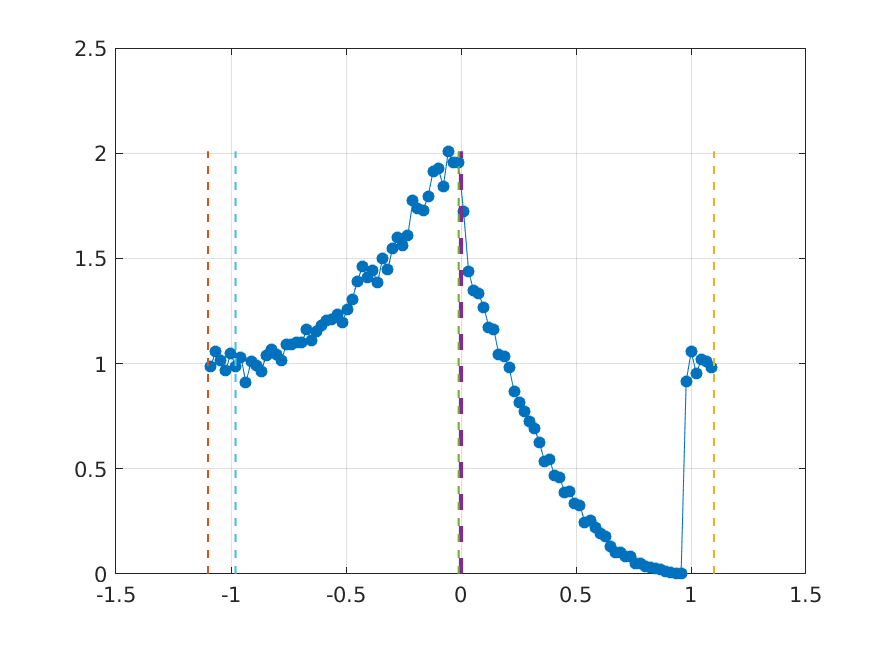
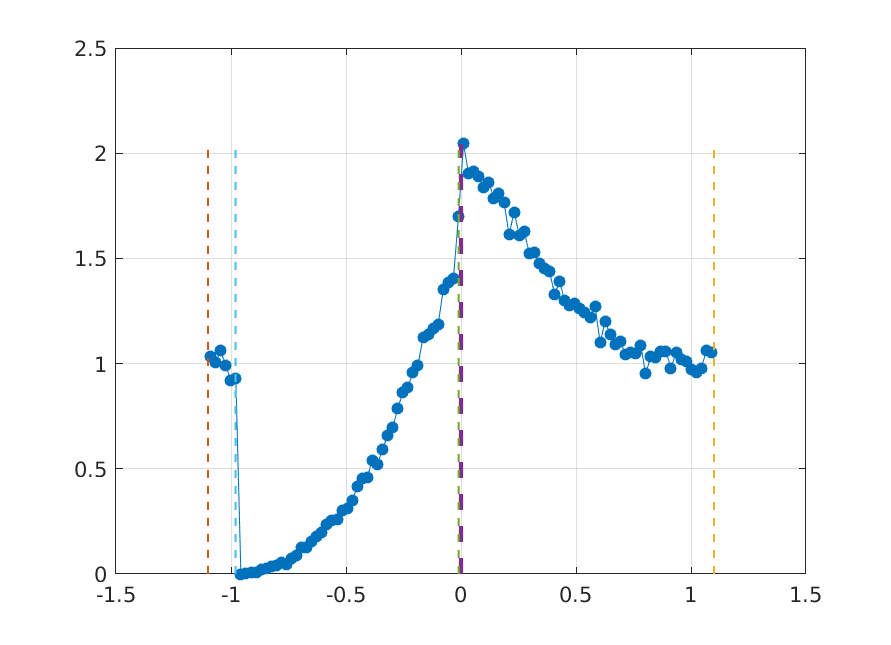
SINGLE LINE FORMATION WORKS CORRECTLY

diff --git a/two_resonance_lines/multiple_lines.m b/two_resonance_lines/multiple_lines.m
@@ -10,7 +10,7 @@ function [freq,flux,total_number_scatterings,photon_path,yes] = multiple_lines(n
     % set initial problem parameters
     [nchan,vmin,vmax,deltax,freq,flux,b,xmin,xmax,rmax,...
             nin,nout,photon_path,nsc,expected_scattering_ratio,r_init] =  ...
-                param_init(beta,nbins,resonance_x,nphot,compare_Fortran,xstart_Fortran);       
+                param_init(beta,nbins,resonance_x,nphot,compare_Fortran);       
             
     display('_____________________________________')
      
@@ -29,12 +29,7 @@ function [freq,flux,total_number_scatterings,photon_path,yes] = multiple_lines(n
         end
         yes(1,phot) = xstart;
         
-        if phot == 104
-            display('we are looking at photon number 104')
-            display(goto_end_of_loop)
-            display('we are done looking at photon number 104')
-        end
-               
+        
         % ALL SCATTERING EVENTS
         if (goto_end_of_loop == 0) & (possibility_scattering == 1)  
             % select angle (economy on photon numbers)
@@ -48,54 +43,56 @@ function [freq,flux,total_number_scatterings,photon_path,yes] = multiple_lines(n
             one_photon_path = [one_photon_path; r_new; xmueou];
                             
             
-            if length(xnew)>0
+            if length(xnew) > 0
                 yes(4,phot) = xnew;
             end
             
-            % also check if resonance is possible!
-            vmin_ = resonance_x + 0.99*vmin;
-            vmax_ = resonance_x + 1.01*vmax;
-            
-            for k=1:length(vmin)
-                if (xstart >= vmin_(k)) & (xstart <= vmax_(k))
-                    last_scatter = 1;
-                else
-%                     display('SHOOT THE PHOTON')
-                end
-            end
-            if xstart == []
-                last_scatter = 1;
-            end
-            
-            % secundary scattering events
-            while (last_scatter == 0) & (multiple_scatterings == 1)
-%                 display('hallo (2) - - - - - - - - - - - - - - - ')
-%                 display(last_scatter)
-                         
-                [xnew,r_new,nin,last_scatter,xmueou,phot_nsc,photon_path] = ...
-                    make_scattering(xnew,xmueou,r_new,beta,alpha,b,rmax,nin,...
-                        resonance_x,resonance_tau,all_radial,isotropic_scattering,phot_nsc,...
-                        photon_path,phot,last_scatter,vmin,vmax); 
-                if last_scatter == 0
-                    one_photon_path = [one_photon_path; r_new; xmueou];
-                end
-                
-                % also check if resonance is possible!
-                vmin_ = resonance_x + 0.99*vmin;
-                vmax_ = resonance_x + 1.01*vmax;
-
-                for k=1:length(vmin)
-                    if (xstart >= vmin_(k)) & (xstart <= vmax_(k))
-                        last_scatter = 1;
-                    end
-                end        
-                
-                if xstart == []
-                    last_scatter = 1;
-                end
-                
-            end
-            
+%             % ________________________________________________________________________________________
+%             % also check if resonance is possible!
+%             vmin_ = resonance_x + 0.99*vmin;
+%             vmax_ = resonance_x + 1.01*vmax;
+%             
+%             for k=1:length(vmin)
+%                 if (xstart >= vmin_(k)) & (xstart <= vmax_(k))
+%                     last_scatter = 1;
+%                 else
+% %                     display('SHOOT THE PHOTON')
+%                 end
+%             end
+%             if xstart == []
+%                 last_scatter = 1;
+%             end
+%             
+%             % secundary scattering events
+%             while (last_scatter == 0) & (multiple_scatterings == 1)
+% %                 display('hallo (2) - - - - - - - - - - - - - - - ')
+% %                 display(last_scatter)
+%                          
+%                 [xnew,r_new,nin,last_scatter,xmueou,phot_nsc,photon_path] = ...
+%                     make_scattering(xnew,xmueou,r_new,beta,alpha,b,rmax,nin,...
+%                         resonance_x,resonance_tau,all_radial,isotropic_scattering,phot_nsc,...
+%                         photon_path,phot,last_scatter,vmin,vmax,xstart_Fortran,yes); 
+%                 if last_scatter == 0
+%                     one_photon_path = [one_photon_path; r_new; xmueou];
+%                 end
+%                 
+%                 % also check if resonance is possible!
+%                 vmin_ = resonance_x + 0.99*vmin;
+%                 vmax_ = resonance_x + 1.01*vmax;
+% 
+%                 for k=1:length(vmin)
+%                     if (xstart >= vmin_(k)) & (xstart <= vmax_(k))
+%                         last_scatter = 1;
+%                     end
+%                 end        
+%                 
+%                 if xstart == []
+%                     last_scatter = 1;
+%                 end
+%                 
+%             end
+%             % ____________________________________________________________________________________________
+             
             
             if forget_photon == 0
                 [nout,flux] = add_count_photon(xnew,xstart,nout,xmin,deltax,nchan,flux,r_new);
@@ -104,13 +101,13 @@ function [freq,flux,total_number_scatterings,photon_path,yes] = multiple_lines(n
             one_photon_path = [xstart ; zeros(3,1)];
         end
         
-        
-        if length(one_photon_path) < size(photon_path,1)
-            one_photon_path = [one_photon_path; zeros(size(photon_path,1) - length(one_photon_path),1)];
-        elseif length(one_photon_path) > size(photon_path,1)
-            photon_path = [photon_path; zeros(length(one_photon_path) - size(photon_path,1),size(photon_path,2))];
-        end
-        photon_path = [photon_path, one_photon_path]; 
+        % create photon_path
+            if length(one_photon_path) < size(photon_path,1)
+                one_photon_path = [one_photon_path; zeros(size(photon_path,1) - length(one_photon_path),1)];
+            elseif length(one_photon_path) > size(photon_path,1)
+                photon_path = [photon_path; zeros(length(one_photon_path) - size(photon_path,1),size(photon_path,2))];
+            end
+            photon_path = [photon_path, one_photon_path]; 
         
         nsc = nsc + phot_nsc;
     end
@@ -118,6 +115,13 @@ function [freq,flux,total_number_scatterings,photon_path,yes] = multiple_lines(n
     % make plots and figures
     flux = normalise_and_plot(nphot,nchan,flux,xmin,xmax,vmin,vmax,...
         make_plot,freq,save,resonance_x,all_radial,radial_release);
+    
+    if xstart_Fortran == 1
+        iets = flux;
+        for k =1:length(flux)
+            flux(k) = iets(length(flux)-k+1);
+        end
+    end
     
     plot_track_path(photon_path,track_path,b,number_paths,make_save,rmax);
     total_number_scatterings = nsc/nphot

diff --git a/two_resonance_lines/make_scattering.m b/two_resonance_lines/make_scattering.m
@@ -11,7 +11,7 @@ function [xnew,r,nin,last_scatter,xmueou,nsc,photon_path,forget_photon,yes] =  m
     end
 
     [r,x_selected,tau_selected,last_scatter] ...
-        = best_line(xmuestart,xstart,resonance_x,resonance_tau,r_init,rmax,b,beta,nsc,vmin,vmax,xstart_Fortran);
+        = best_line(xmuestart,xstart,resonance_x,resonance_tau,r_init,rmax,b,beta,nsc,vmin,vmax);
     if length(r) > 0
         yes(3,phot) = r;
     end
@@ -20,6 +20,10 @@ function [xnew,r,nin,last_scatter,xmueou,nsc,photon_path,forget_photon,yes] =  m
         [xnew,xmueou,last_scatter,forget_photon] ...
             = scatter(xstart,x_selected,tau_selected,xmuestart,r,b,beta,alpha,all_radial,nsc,isotropic_scattering,nin);
         nsc = nsc + 1;
+        
+        if xstart_Fortran == 0
+            xnew = -xnew;
+        end
     else
         xnew = xstart;
         last_scatter = 1;
@@ -28,10 +32,5 @@ function [xnew,r,nin,last_scatter,xmueou,nsc,photon_path,forget_photon,yes] =  m
 
     if length(resonance_x) == 1
         last_scatter = 1;
-    end
-    
-%     if xstart_Fortran == 1
-%         xnew = -xnew;
-%     end
-    
+    end    
 end

diff --git a/two_resonance_lines/create_well.m b/two_resonance_lines/create_well.m
@@ -2,15 +2,15 @@ function [xstart,goto_end_of_loop,deterministic_sampling_x] ...
     =  create_well(xmin,xmax,vmin,vmax,resonance_x,deterministic_sampling_x,nphot,xstart_Fortran,phot)
     % sample uniformely, but not in given intervals (emission/absorption)
     
-    if xstart_Fortran == 1
+%     if xstart_Fortran == 1
         xstart = xmax*rand;
         make_neg = rand;
         if make_neg >= 0.5
             xstart = -xstart;
         end
-    else
-        xstart = xmin + (xmax-xmin)*rand;
-    end
+%     else
+%         xstart = xmin + (xmax-xmin)*rand;
+%     end
     
     if deterministic_sampling_x >= 1 
         xstart = xmin + deterministic_sampling_x*(xmax-xmin)/nphot;
@@ -36,11 +36,5 @@ function [xstart,goto_end_of_loop,deterministic_sampling_x] ...
                 goto_end_of_loop = 0;
             end
         end
-    end
-    
-    if phot == 104
-        display(-0.99*vmax(k))
-        display(-1.01*vmin(k))
-    end
-    
+    end    
 end

diff --git a/two_resonance_lines/test_file.m b/two_resonance_lines/test_file.m
@@ -38,6 +38,8 @@ function [freq, flux_two, number_scatterings,photon_path,yes] = test_file(test_n
     if test_number == 0
         % original version 
             % (by default, compare_Fortran = 1)
+            multiple_scatterings = 0;
+            nphot = 10^5;
             
     elseif test_number == 100
         % original version 
@@ -46,6 +48,16 @@ function [freq, flux_two, number_scatterings,photon_path,yes] = test_file(test_n
             multiple_scatterings = 0;
             nphot = 10^5;
             
+    elseif test_number == 101
+        % original version 
+            % (by default, compare_Fortran = 1)
+            xstart_Fortran = 1;
+            multiple_scatterings = 0;
+            nphot = 10^5;            
+   
+            
+            
+
     elseif test_number == 1
         % first adaptation: radial release
         radial_release = 1; 

diff --git a/two_resonance_lines/param_init.m b/two_resonance_lines/param_init.m
@@ -1,6 +1,6 @@
 function [nchan,vmin,vmax,deltax,freq,flux,b,xmin,xmax,rmax,...
         nin,nout,photon_path,nsc,expected_scattering_ratio,r_init] ...
-        = param_init(beta,nbins,resonance_x,nphot,compare_Fortran,xstart_Fortran) 
+        = param_init(beta,nbins,resonance_x,nphot,compare_Fortran) 
     % xmin and xmax are the boundaries of the frequency interval
     % vmin and vmax are the boundaries of the absorption regions
 

diff --git a/two_resonance_lines/all_tests.m b/two_resonance_lines/all_tests.m
@@ -166,13 +166,9 @@ clc, clear all, close all
 
 % MATLAB DATA
     display('*****************MATLAB DATA*****************')
-    test_number = 100;
+    test_number = 0;
     [freq_b, flux_b, number_scatterings,photon_path,yes_b] = test_file(test_number);
     
-    iets = flux_b;
-    for k =1:length(flux_b)
-        flux_b(k) = iets(length(flux_b)-k+1);
-    end
   
 % JOINT PLOT
 save_fig = 1;  

diff --git a/two_resonance_lines/best_line.m b/two_resonance_lines/best_line.m
@@ -1,5 +1,5 @@
 function [r,x_selected,tau_selected,last_scatter]...
-    = best_line(xmuestart,xstart,resonance_x,resonance_tau,r_init,rmax,b,beta,nsc,vmin,vmax,xstart_Fortran)
+    = best_line(xmuestart,xstart,resonance_x,resonance_tau,r_init,rmax,b,beta,nsc,vmin,vmax)
         % determine radius of interaction
         
         last_scatter = 0;

diff --git a/two_resonance_lines/one_radial_line.m b/two_resonance_lines/one_radial_line.m
@@ -119,7 +119,7 @@ function [freq,flux,yes] = one_radial_line(nphot , xk0 , alpha , beta , make_plo
 
     flux = flux/xnorm;
 
-    % turn the frequency array around itself
+    % turn the frequency array around itself !!! !!! !!! !!! !!! !!! !!! 
     freq_ = freq;
     for k = 1:length(freq)
         freq(k) = freq_(end+1-k);

diff --git a/two_resonance_lines/add_count_photon.m b/two_resonance_lines/add_count_photon.m
@@ -6,9 +6,5 @@ function [nout,flux] = add_count_photon(xnew,xstart,nout,xmin,deltax,nchan,flux,
         
         if (ichan < 1) | (ichan > nchan)
             error('oei oei');
-            display(xstart);
-            display(xnew);
-            display(r);
-            ichan = 2;
         end       
 end
